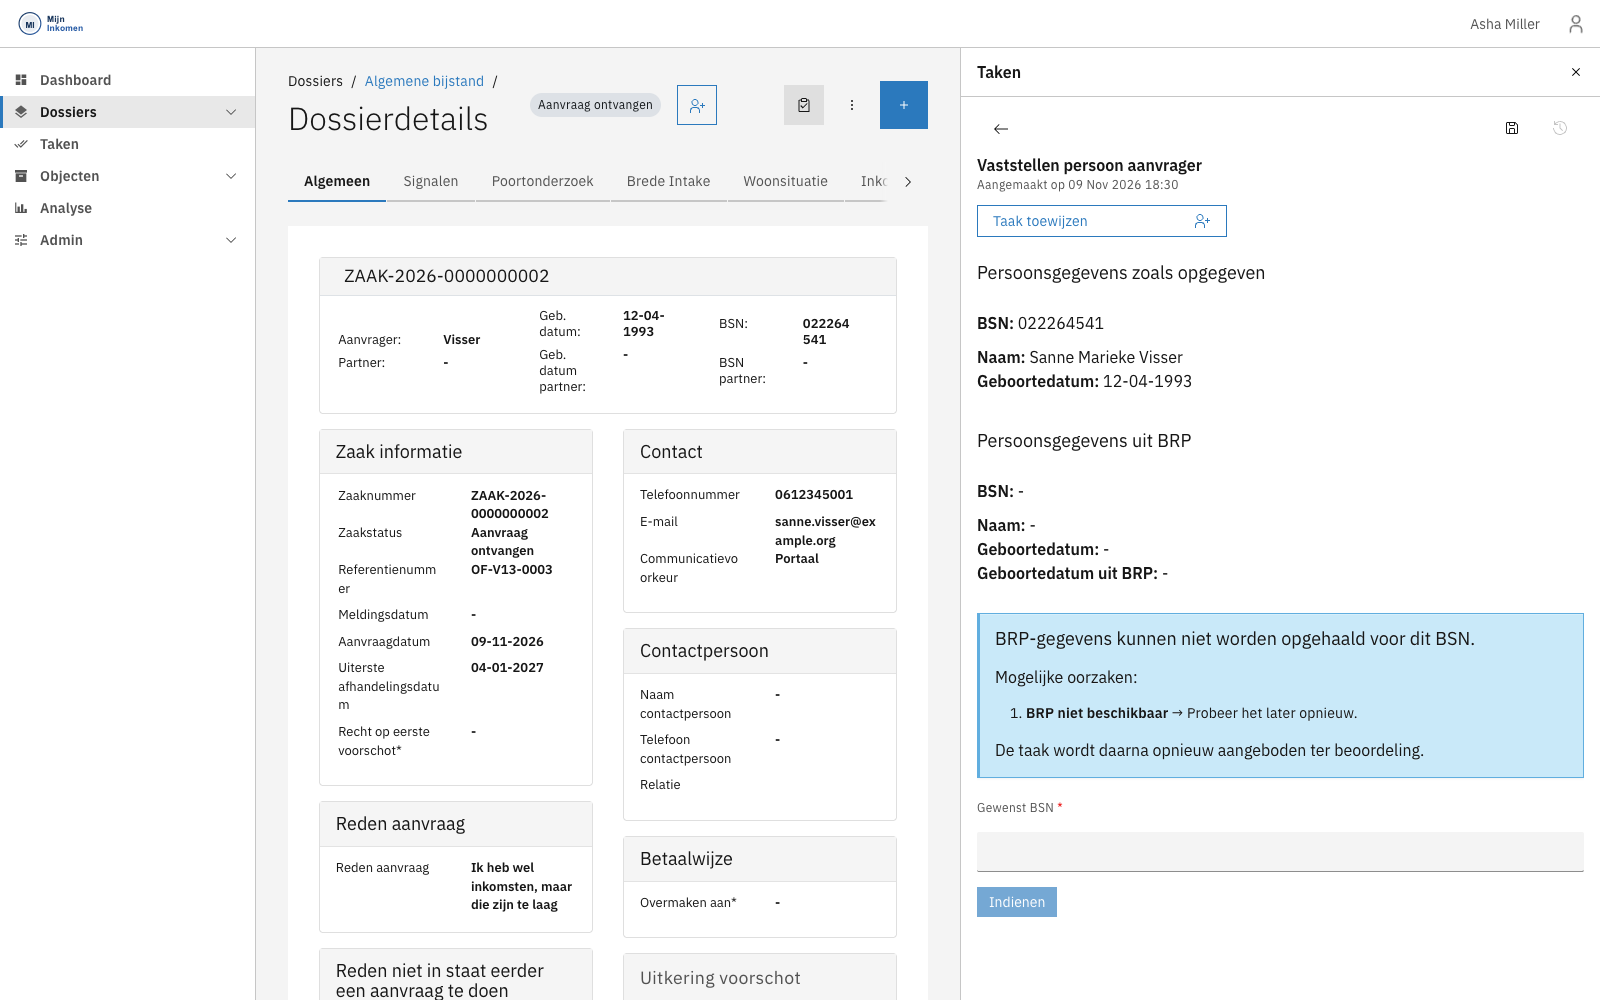
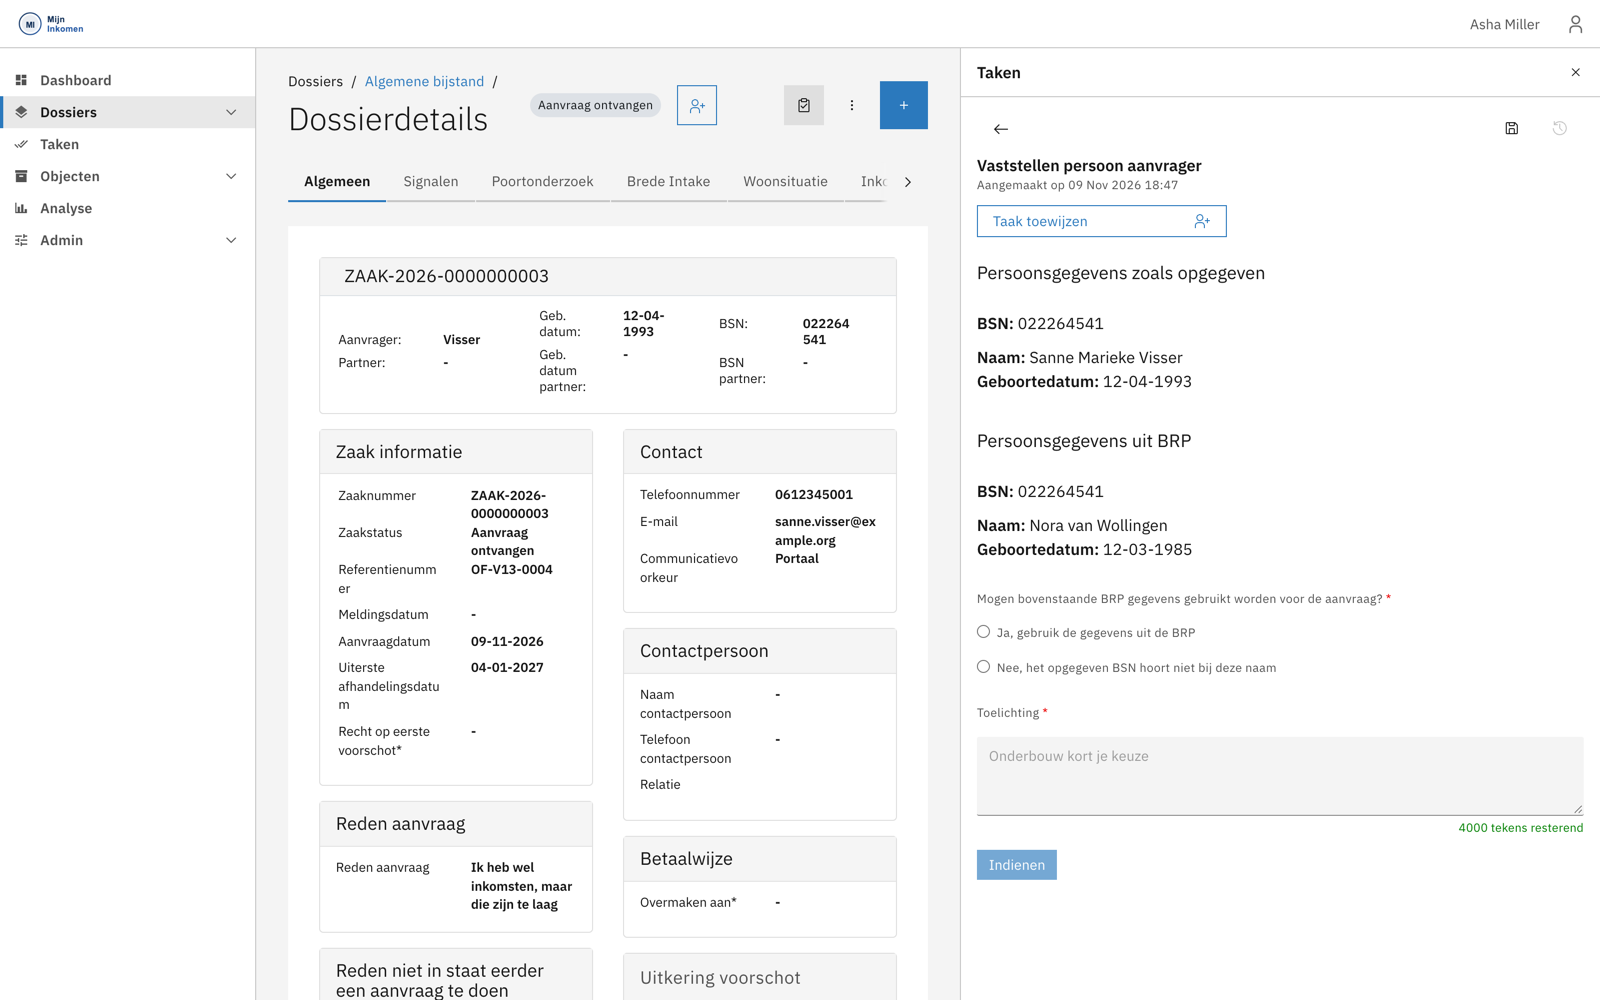
Taakscreenshot met werkende BRP-bevraging
De Suwinet-bevraging faalde door een niet-ingevulde placeholder: de
suffix stond als lege string ingesteld, waardoor de literal
${AUTODEPLOYMENT_PLUGINCONFIG_SUWINET_SUFFIX} in de request-URL bleef
staan. De simulator had de testdata wel degelijk.

Daardoor toont de taak nu het normale pad: opgegeven gegevens naast
BRP-gegevens, met een verschil in naam en geboortedatum dat de
behandelaar moet beoordelen. Dat is een veel beter voorbeeld dan het
foutscherm van eerder.

De testpersoon is opgenomen in de allowlist van de privacycontrole,
beoordeeld als fictieve simulatordata.

diff --git a/handleiding/werken-met-een-dossier.md b/handleiding/werken-met-een-dossier.md
@@ -81,21 +81,34 @@ De taak opent in een paneel náást het dossier, zodat je de zaakgegevens kunt b
 
 ### Hoe een vaststelling werkt
 
-Een vaststellingstaak zet steeds twee dingen naast elkaar: **wat de inwoner heeft opgegeven** en **wat de basisregistratie zegt**. Jij beoordeelt het verschil en legt vast wat telt.
+Dit patroon komt in bijna alle vaststellingstaken terug: het formulier zet **wat de inwoner heeft opgegeven** naast **wat de basisregistratie zegt**, en vraagt jou om de knoop door te hakken.
 
-In het voorbeeld hierboven lukt de BRP-bevraging niet — de blokken *Persoonsgegevens uit BRP* blijven leeg en het formulier meldt dat de gegevens niet konden worden opgehaald. Je krijgt dan het veld **Gewenst BSN** om een correctie door te geven, waarna de taak opnieuw wordt aangeboden.
+In het voorbeeld hierboven lopen beide uiteen:
 
-Lukt de bevraging wel, dan staan beide blokken gevuld en kun je kiezen of de BRP-gegevens gebruikt mogen worden, met een verplichte **Toelichting** waarin je die keuze onderbouwt.
+| | Opgegeven | Volgens de BRP |
+| --- | --- | --- |
+| BSN | 022264541 | 022264541 |
+| Naam | Sanne Marieke Visser | Nora van Wollingen |
+| Geboortedatum | 12-04-1993 | 12-03-1985 |
 
-{% hint style="info" %}
-Dit is het uitzonderingsgeval. Normaal staan beide blokken gevuld en hoef je alleen te bevestigen of te corrigeren. Blijft de BRP onbereikbaar, meld het dan bij functioneel beheer — met een handmatig opgezocht BSN kun je intussen verder.
-{% endhint %}
+Het BSN komt overeen, maar naam en geboortedatum niet. Precies daarvoor is deze taak er — het systeem kan zo'n verschil niet zelf wegstrepen.
 
-Velden met een rood sterretje zijn verplicht. De knop **Indienen** wordt pas actief als alles is ingevuld én de taak aan jou is toegewezen.
+Zulke verschillen hebben uiteenlopende oorzaken: een typefout bij het invullen, een recente naamswijziging die nog niet is verwerkt, of een BSN dat bij iemand anders hoort.
+
+Je kiest tussen twee antwoorden:
+
+* **Ja, gebruik de gegevens uit de BRP** — de basisregistratie is leidend; de aanvraaggegevens worden gecorrigeerd.
+* **Nee, het opgegeven BSN hoort niet bij deze naam** — er is iets anders aan de hand, bijvoorbeeld een typefout in het BSN.
+
+In beide gevallen onderbouw je je keuze in het veld **Toelichting**. Dat is verplicht, en het is wat later bij bezwaar je motivering vormt.
 
 {% hint style="warning" %}
 Wat je hier vaststelt, is wat meetelt voor de beoordeling. De oorspronkelijke aanvraaggegevens en de brongegevens blijven apart bewaard, zodat achteraf aantoonbaar is wat de inwoner opgaf, wat de bron zei en wat jij daarvan hebt gemaakt. Zie [Datamodel](../gegevens/datamodel.md).
 {% endhint %}
+
+Lukt de BRP-bevraging niet, dan blijven de BRP-velden leeg en meldt het formulier dat de gegevens niet konden worden opgehaald. Je krijgt dan een veld **Gewenst BSN** om een correctie door te geven, waarna de taak opnieuw wordt aangeboden.
+
+Velden met een rood sterretje zijn verplicht. De knop **Indienen** wordt pas actief als alles is ingevuld én de taak aan jou is toegewezen.
 
 Met de knoppen rechtsboven in het taakpaneel kun je tussentijds **opslaan**, de **geschiedenis** bekijken of de taak **sluiten** zonder in te dienen. Een taak die je sluit blijft openstaan.
 
